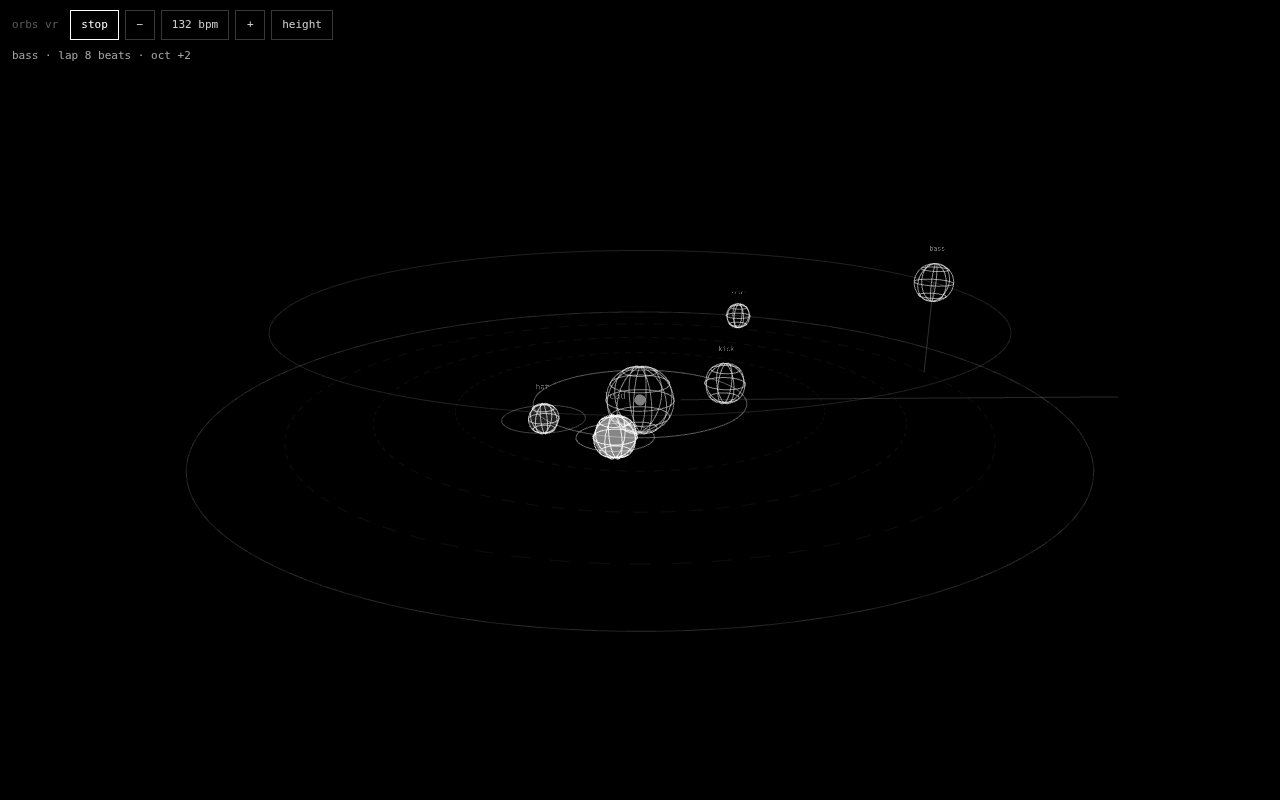
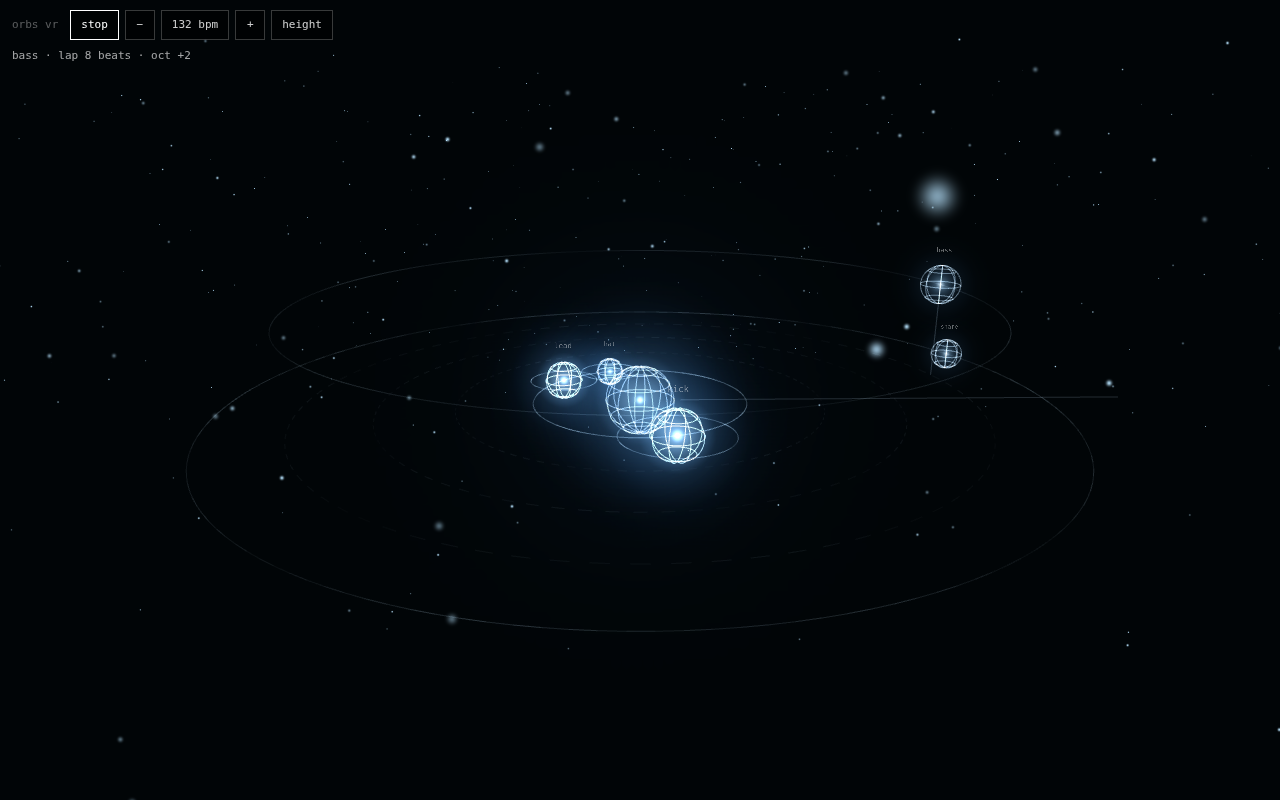
hologram look, stand inside in vr

diff --git a/index.html b/index.html
@@ -4,7 +4,7 @@
 <meta name="viewport" content="width=device-width,initial-scale=1,viewport-fit=cover,user-scalable=no">
 <title>orbs vr · prototype</title>
 <style>
-html,body{margin:0;height:100%;background:#000;color:rgba(255,255,255,.75);font:11px/1.4 ui-monospace,Menlo,Consolas,monospace;overflow:hidden;-webkit-user-select:none;user-select:none;-webkit-touch-callout:none}
+html,body{margin:0;height:100%;background:#010507;color:rgba(255,255,255,.75);font:11px/1.4 ui-monospace,Menlo,Consolas,monospace;overflow:hidden;-webkit-user-select:none;user-select:none;-webkit-touch-callout:none}
 canvas{display:block;touch-action:none}
 #bar{position:fixed;top:calc(10px + env(safe-area-inset-top));left:12px;right:12px;display:flex;gap:6px;align-items:center;flex-wrap:wrap;pointer-events:none}
 #bar>*{pointer-events:auto}
@@ -125,14 +125,30 @@ function tick() {
 setInterval(tick, 25);
 
 // ---- three ----
+const BG = 0x010507; // teal-black, like the kamino archive room
 const renderer = new THREE.WebGLRenderer({ antialias: true, alpha: true });
-renderer.setPixelRatio(Math.min(2, devicePixelRatio)); renderer.setSize(innerWidth, innerHeight); renderer.setClearColor(0x000000, 1);
+renderer.setPixelRatio(Math.min(2, devicePixelRatio)); renderer.setSize(innerWidth, innerHeight); renderer.setClearColor(BG, 1);
 renderer.xr.enabled = true; renderer.xr.setReferenceSpaceType('local-floor');
 document.body.prepend(renderer.domElement);
 const scene = new THREE.Scene();
 const camera = new THREE.PerspectiveCamera(50, innerWidth / innerHeight, .01, 50);
 const world = new THREE.Group(); scene.add(world); // the solar system
-const W = (a) => new THREE.LineBasicMaterial({ color: 0xffffff, transparent: true, opacity: a, depthWrite: false });
+const HOLO = 0xcfeaff, ADD = THREE.AdditiveBlending, uTime = { value: 0 };
+const W = (a) => new THREE.LineBasicMaterial({ color: HOLO, transparent: true, opacity: a, depthWrite: false, blending: ADD });
+// orbit rings: faint lines with a slow shimmer travelling around them (one cheap shader, no post-processing)
+function shimmerMat(a) {
+  const u = { uTime, uOp: { value: a }, uSeed: { value: Math.random() * 6.28 } };
+  const m = new THREE.ShaderMaterial({ uniforms: u, transparent: true, depthWrite: false, blending: ADD,
+    vertexShader: 'attribute float aAng; varying float vA; void main(){ vA = aAng; gl_Position = projectionMatrix * modelViewMatrix * vec4(position,1.0); }',
+    fragmentShader: 'uniform float uTime, uOp, uSeed; varying float vA; void main(){ float s = 0.62 + 0.38 * sin(vA * 3.0 - uTime * 0.9 + uSeed) * sin(vA * 7.0 + uTime * 0.37); gl_FragColor = vec4(0.80, 0.92, 1.0, min(1.0, uOp * s * 1.25)); }' });
+  Object.defineProperty(m, 'opacity', { get: () => u.uOp.value, set: v => { u.uOp.value = v; }, configurable: true });
+  return m;
+}
+// soft glow texture for light points and halos (sprites = fake bloom, fast on quest / iphone)
+const glowTex = (() => { const c = document.createElement('canvas'); c.width = c.height = 128; const x = c.getContext('2d'), g = x.createRadialGradient(64, 64, 0, 64, 64, 64);
+  g.addColorStop(0, 'rgba(255,255,255,1)'); g.addColorStop(.12, 'rgba(225,242,255,.75)'); g.addColorStop(.32, 'rgba(150,205,255,.22)'); g.addColorStop(.6, 'rgba(90,160,230,.06)'); g.addColorStop(1, 'rgba(0,0,0,0)');
+  x.fillStyle = g; x.fillRect(0, 0, 128, 128); const t = new THREE.CanvasTexture(c); t.colorSpace = THREE.SRGBColorSpace; return t; })();
+const glow = (size, a, col = 0xa8d8ff) => { const sp = new THREE.Sprite(new THREE.SpriteMaterial({ map: glowTex, color: col, transparent: true, opacity: a, depthWrite: false, blending: ADD })); sp.scale.setScalar(size); return sp; };
 function wireSphere(r, lat, lon, a) { // latitude rings + meridians, like the planets-3d mockup
   const pts = [], seg = 40;
   for (let i = 1; i <= lat; i++) { const ph = -Math.PI / 2 + i * Math.PI / (lat + 1), y = Math.sin(ph) * r, rr = Math.cos(ph) * r; for (let j = 0; j < seg; j++) { const t0 = j / seg * TAU, t1 = (j + 1) / seg * TAU; pts.push(Math.cos(t0) * rr, y, Math.sin(t0) * rr, Math.cos(t1) * rr, y, Math.sin(t1) * rr); } }
@@ -140,7 +156,18 @@ function wireSphere(r, lat, lon, a) { // latitude rings + meridians, like the pl
   const g = new THREE.BufferGeometry(); g.setAttribute('position', new THREE.Float32BufferAttribute(pts, 3));
   return new THREE.LineSegments(g, W(a));
 }
-function circle(r, a, seg = 128, dash) { const pts = []; for (let i = 0; i < seg; i++) { if (dash && i % 2) continue; const t0 = i / seg * TAU, t1 = (i + 1) / seg * TAU; pts.push(Math.sin(t0) * r, 0, -Math.cos(t0) * r, Math.sin(t1) * r, 0, -Math.cos(t1) * r); } const g = new THREE.BufferGeometry(); g.setAttribute('position', new THREE.Float32BufferAttribute(pts, 3)); return new THREE.LineSegments(g, W(a)); }
+function circle(r, a, seg = 128, dash) { const pts = [], ang = []; for (let i = 0; i < seg; i++) { if (dash && i % 2) continue; const t0 = i / seg * TAU, t1 = (i + 1) / seg * TAU; pts.push(Math.sin(t0) * r, 0, -Math.cos(t0) * r, Math.sin(t1) * r, 0, -Math.cos(t1) * r); ang.push(t0, t1); } const g = new THREE.BufferGeometry(); g.setAttribute('position', new THREE.Float32BufferAttribute(pts, 3)); g.setAttribute('aAng', new THREE.Float32BufferAttribute(ang, 1)); return new THREE.LineSegments(g, shimmerMat(a)); }
+// star field: a sparse cloud of tiny light points filling the room, twinkling and drifting (one draw call)
+function starField(n) {
+  const pos = [], seed = [];
+  for (let i = 0; i < n; i++) { let x, y, z, d; do { x = (Math.random() * 2 - 1) * 4.2; z = (Math.random() * 2 - 1) * 4.2; y = -0.75 + Math.random() * 1.85; d = Math.hypot(x, z); } while (d < 0.18 || d > 4.2);
+    const big = Math.random() < .06; pos.push(x, y, z); seed.push(Math.random() * 6.28, .3 + Math.random(), big ? .035 + Math.random() * .03 : .008 + Math.random() * .012); }
+  const g = new THREE.BufferGeometry(); g.setAttribute('position', new THREE.Float32BufferAttribute(pos, 3)); g.setAttribute('aSeed', new THREE.Float32BufferAttribute(seed, 3));
+  const m = new THREE.ShaderMaterial({ uniforms: { uTime, uPx: { value: 800 }, uOp: { value: .9 } }, transparent: true, depthWrite: false, blending: ADD,
+    vertexShader: 'attribute vec3 aSeed; uniform float uTime, uPx; varying float vA; void main(){ float ph = aSeed.x, sp = aSeed.y; vec3 p = position + vec3(sin(uTime*0.05*sp+ph), 0.5*cos(uTime*0.04*sp+ph*1.3), cos(uTime*0.045*sp+ph*0.7)) * 0.07; vec4 mv = modelViewMatrix * vec4(p,1.0); vA = 0.45 + 0.55 * pow(0.5 + 0.5 * sin(uTime * (0.6 + sp * 1.6) + ph * 9.0), 2.0); gl_PointSize = max(1.5, aSeed.z * uPx / max(0.05, -mv.z)); gl_Position = projectionMatrix * mv; }',
+    fragmentShader: 'uniform float uOp; varying float vA; void main(){ float d = length(gl_PointCoord - 0.5); float a = smoothstep(0.5, 0.0, d); a *= a; gl_FragColor = vec4(0.74, 0.9, 1.0, a * vA * uOp); }' });
+  const pts = new THREE.Points(g, m); pts.frustumCulled = false; return pts;
+}
 function textSprite(s, a = .6, h = .035) {
   const c = document.createElement('canvas'), x = c.getContext('2d'); c.width = 1024; c.height = 64;
   const tex = new THREE.CanvasTexture(c); tex.colorSpace = THREE.SRGBColorSpace; tex.minFilter = THREE.LinearFilter;
@@ -149,15 +176,18 @@ function textSprite(s, a = .6, h = .035) {
   m.set = (str) => { if (str === m._s) return; m._s = str; x.clearRect(0, 0, 1024, 64); x.font = '34px ui-monospace,Menlo,Consolas,monospace'; x.fillStyle = '#fff'; x.textAlign = 'center'; x.textBaseline = 'middle'; x.fillText(str, 512, 32); tex.needsUpdate = true; };
   m.set(s); return m;
 }
-const sun = wireSphere(.11, 5, 6, .5); world.add(sun);
-const sunCore = new THREE.Mesh(new THREE.SphereGeometry(.018, 12, 8), new THREE.MeshBasicMaterial({ color: 0xffffff, transparent: true, opacity: .7 })); world.add(sunCore);
+const sun = wireSphere(.11, 5, 6, .42); world.add(sun);
+const sunHalo = glow(.9, .55), sunHalo2 = glow(2.2, .12, 0x6fb6ff); world.add(sunHalo, sunHalo2);
+const stars = starField(touchy ? 520 : 700); world.add(stars);
+const sunCore = glow(.09, .9, 0xffffff); world.add(sunCore);
 const bands = LAPS.map((L, b) => { const g = new THREE.Group(), ring = circle(bandR(b), .05, 160, true), lab = textSprite(L + (L > 1 ? ' beats' : ' beat'), 0, .03); lab.position.set(bandR(b) + .02, .03, 0); g.add(ring, lab); g.ring = ring; g.lab = lab; world.add(g); return g; });
 const trig = (() => { const g = new THREE.BufferGeometry(); g.setAttribute('position', new THREE.Float32BufferAttribute([0, 0, -.13, 0, 0, -RMAX], 3)); return new THREE.LineSegments(g, W(.16)); })(); world.add(trig);
 const P = DEF.map(d => {
   const p = { ...d, lap: LAPS[d.band], r: bandR(d.band), rT: bandR(d.band), y: 0, yT: 0, oct: 0, grab: null, flash: 0, x: 0, z: 0, ang: d.a0 };
   p.g = new THREE.Group(); world.add(p.g);
-  p.sphere = wireSphere(d.size, 3, 4, .55); p.g.add(p.sphere);
-  p.core = new THREE.Mesh(new THREE.SphereGeometry(d.size * .96, 16, 12), new THREE.MeshBasicMaterial({ color: 0xffffff, transparent: true, opacity: 0, depthWrite: false })); p.g.add(p.core);
+  p.sphere = wireSphere(d.size, 3, 4, .5); p.g.add(p.sphere);
+  p.halo = glow(d.size * 6, .45); p.g.add(p.halo);
+  p.core = glow(d.size * 1.6, .9, 0xffffff); p.g.add(p.core); // bright light point at the centre
   p.hit = new THREE.Mesh(new THREE.SphereGeometry(Math.max(.1, d.size * 1.8), 8, 6), new THREE.MeshBasicMaterial({ visible: false })); p.hit.userData.p = p; p.g.add(p.hit);
   p.ripple = circle(d.size * 1.4, 0, 64); p.g.add(p.ripple);
   p.glow = circle(d.size * 1.9, 0, 64); p.g.add(p.glow);
@@ -275,14 +305,15 @@ function xrFollow() { for (const h of XRI) { if (!h.held) continue; let wp = nul
 
 async function xrSupported(m) { try { return !!(navigator.xr && await navigator.xr.isSessionSupported(m)); } catch (e) { return false; } }
 let xrMode = null;
+const XR_S = 1.6, XR_Y = 1.3, XR_Z = -0.95; // sun 0.95 m in front at 1.3 m; you stand between the 2- and 4-beat rings
 async function enterXR(m) {
   initAudio(); if (ac.state !== 'running') ac.resume();
   const opt = { optionalFeatures: ['local-floor', 'bounded-floor', 'hand-tracking'] };
   const s = await navigator.xr.requestSession(m, opt);
   xrMode = m; await renderer.xr.setSession(s);
-  world.position.set(0, 1.05, -.55); // room-scale: sun at chest height in front of you, outer orbits pass around you
+  world.position.set(0, XR_Y, XR_Z); world.scale.setScalar(XR_S); // stand inside: rings 0.5–2.1 m wide around you, planets 0.8–1.8 m high
   xrUI.visible = true; if (m === 'immersive-ar') { renderer.setClearColor(0x000000, 0); scene.background = null; }
-  s.addEventListener('end', () => { xrMode = null; world.position.set(0, 0, 0); xrUI.visible = false; renderer.setClearColor(0x000000, 1); for (const h of XRI) xrRelease(h); ui(); });
+  s.addEventListener('end', () => { xrMode = null; world.position.set(0, 0, 0); world.scale.setScalar(1); xrUI.visible = false; renderer.setClearColor(BG, 1); for (const h of XRI) xrRelease(h); ui(); });
   ui(); return s;
 }
 xrSupported('immersive-vr').then(ok => { $('evr').hidden = !ok; });
@@ -325,17 +356,19 @@ renderer.setAnimationLoop(() => {
     p.orbit.scale.setScalar(p.grab ? bandR(bandOfR(p.r)) : p.r); p.orbit.position.y = p.grab ? octOfY(p.y) * OCT_H : p.y; p.orbit.material.opacity = p.grab ? .35 : .12;
     const sp = p.stem.geometry.attributes.position; sp.setXYZ(0, p.x, p.y, p.z); sp.setXYZ(1, p.x, 0, p.z); sp.needsUpdate = true; p.stem.material.opacity = Math.abs(p.y) > .02 ? .18 : 0;
     p.flash = Math.max(0, p.flash - dt * 4); const held = !!p.grab;
-    p.core.material.opacity = held ? .35 : p.flash * .85; p.sphere.material.opacity = held ? 1 : .55 + .45 * p.flash;
+    p.core.material.opacity = held ? 1 : .55 + .45 * p.flash; p.sphere.material.opacity = held ? .95 : .4 + .5 * p.flash;
+    p.halo.material.opacity = held ? .9 : .32 + .5 * p.flash; p.halo.scale.setScalar(p.size * (held ? 9 : 6 + 5 * p.flash) * (1 + .06 * Math.sin(uTime.value * 1.7 + p.size * 99)));
     p.g.scale.setScalar(held ? 1.35 : 1 + .25 * p.flash);
     p.glow.material.opacity = held ? .9 : 0; p.glow.rotation.y += dt;
     if (p.rip != null) { p.rip += dt * 2.5; p.ripple.scale.setScalar(1 + p.rip * 2); p.ripple.material.opacity = Math.max(0, .45 * (1 - p.rip)); if (p.rip > 1) p.rip = null; }
     p.label.set(held ? preview(p) : p.id); p.label.material.opacity = held ? .95 : .4; const lh = (renderer.xr.isPresenting ? .03 : .042 * C.dist / 2.8) * (held ? 1.3 : 1); p.label.scale.set(lh * 16, lh, 1);
   }
-  sunCore.material.opacity = S.playing ? .5 + .4 * Math.pow(1 - frac(beat), 3) : .35;
+  const pulse = S.playing ? Math.pow(1 - frac(beat), 3) : 0; sunCore.material.opacity = .6 + .4 * pulse; sunHalo.material.opacity = .4 + .25 * pulse; sunHalo.scale.setScalar(.85 + .12 * pulse);
+  uTime.value += dt; stars.material.uniforms.uPx.value = renderer.xr.isPresenting ? 900 : innerHeight * renderer.getPixelRatio() / (2 * Math.tan(camera.fov * Math.PI / 360));
   renderer.render(scene, camera);
 });
 const info = () => P.map(p => ({ id: p.id, lap: p.lap, r: +p.r.toFixed(3), rT: +p.rT.toFixed(3), oct: p.oct, y: +p.y.toFixed(3) }));
-window.VR = { S, P, LAPS, bandR, play, stop, setBpm, info, renderer, camera, world, enterXR, XRI, get ac() { return ac; }, get analyser() { return analyser; },
+window.VR = { XR_S, stars, S, P, LAPS, bandR, play, stop, setBpm, info, renderer, camera, world, enterXR, XRI, get ac() { return ac; }, get analyser() { return analyser; },
   screenOf(x, y, z) { const v = new THREE.Vector3(x, y, z); world.localToWorld(v); v.project(camera); return { x: (v.x + 1) / 2 * innerWidth, y: (1 - v.y) / 2 * innerHeight }; },
   planetScreen(id) { const p = P.find(q => q.id === id); return this.screenOf(p.x, p.y, p.z); },
   planetWorld(id) { const p = P.find(q => q.id === id); return wpos(p.g); } };
